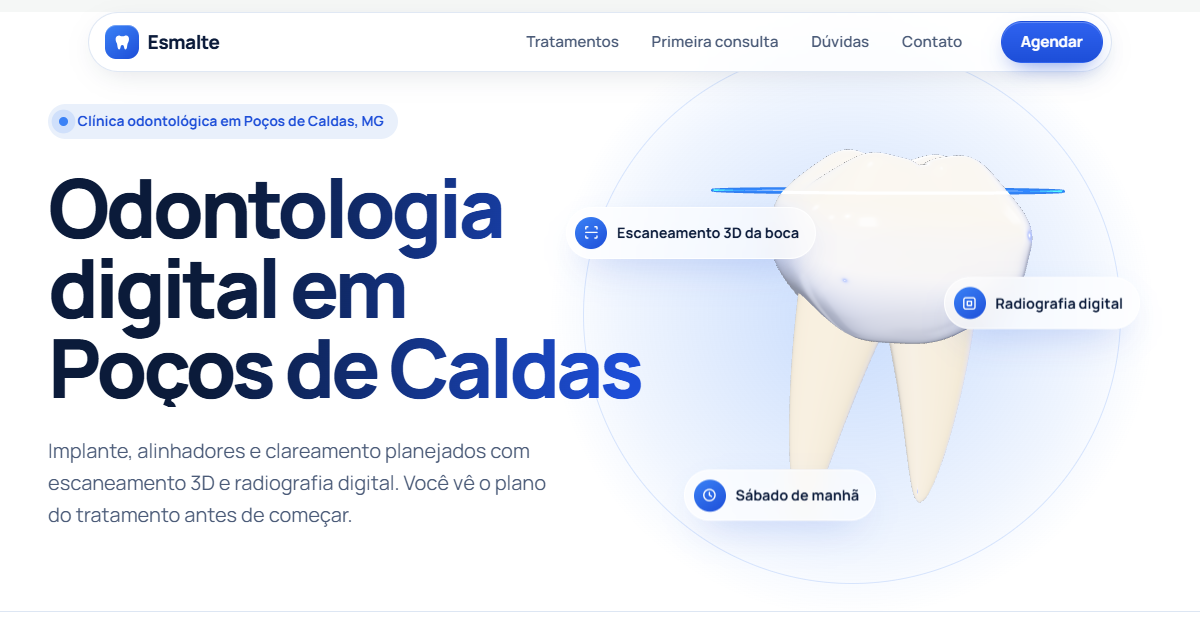
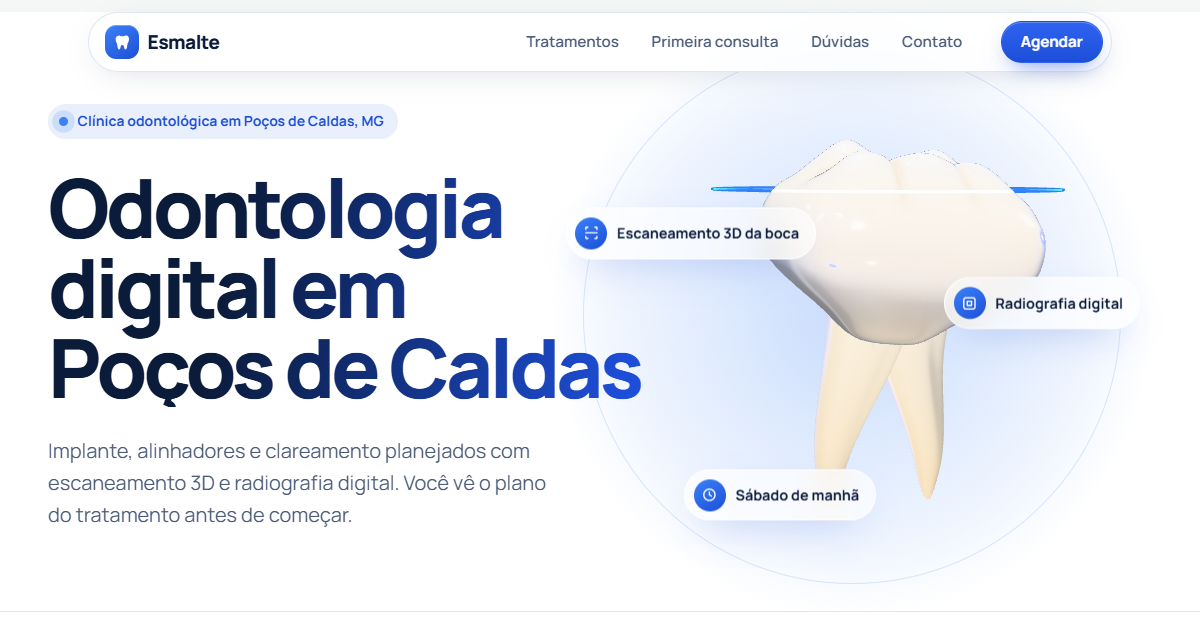
Dente 3D mais realista
Coroa de molar inferior com 5 cúspides, sulcos central, vestibular e lingual,
cor por região (colo marfim, pontas translúcidas, sombra nos sulcos), raízes
com tronco, furca e curvatura distal, e luz de preenchimento por baixo.

diff --git a/src/three/dente.ts b/src/three/dente.ts
@@ -31,8 +31,9 @@ const ESTADOS: Record<Estado, Partial<Params>> = {
   prevencao: { explodir: 0, raiz: 1, cor: 1, placa: 0, escala: 0.98, inclina: 0.16, scan: 0 },
 }
 
-const COR_A3 = new THREE.Color('#d6b77f')
-const COR_B1 = new THREE.Color('#fbfaf6')
+// multiplicam a cor por vértice da coroa: A3 amarela tudo, B1 deixa a cor natural do esmalte
+const COR_A3 = new THREE.Color('#e3c089')
+const COR_B1 = new THREE.Color('#ffffff')
 
 const clamp01 = (x: number) => Math.min(1, Math.max(0, x))
 const smooth = (e0: number, e1: number, x: number) => {
@@ -40,56 +41,102 @@ const smooth = (e0: number, e1: number, x: number) => {
   return t * t * (3 - 2 * t)
 }
 
+/**
+ * Coroa de primeiro molar inferior: 5 cúspides (3 vestibulares, 2 linguais, as linguais mais altas),
+ * sulco central ondulado, sulcos vestibular e lingual, mesa oclusal mais estreita que o bojo
+ * e colo estreitando até a junção com a raiz. A cor vem por vértice: marfim no colo, branco no meio,
+ * translúcido azulado nas pontas das cúspides e sombra dentro dos sulcos.
+ */
+const CUSPIDES: [number, number, number][] = [
+  [-0.56, 0.44, 0.15], // mesiovestibular
+  [0.0, 0.5, 0.14], // distovestibular
+  [0.56, 0.4, 0.105], // distal
+  [-0.44, -0.44, 0.185], // mesiolingual
+  [0.44, -0.44, 0.165], // distolingual
+]
+
 function geometriaCoroa(seg: number) {
-  let g: THREE.BufferGeometry = new THREE.SphereGeometry(1, seg, Math.round(seg * 0.75))
+  let g: THREE.BufferGeometry = new THREE.SphereGeometry(1, seg, Math.round(seg * 0.8))
   g.deleteAttribute('uv')
   g.deleteAttribute('normal')
   g = mergeVertices(g)
   const p = g.attributes.position as THREE.BufferAttribute
-  const cuspides: [number, number, number][] = [
-    [0.44, 0.38, 0.19], [-0.44, 0.38, 0.17], [0.46, -0.36, 0.18], [-0.44, -0.36, 0.16], [0.05, 0.5, 0.1],
-  ]
+  const cores = new Float32Array(p.count * 3)
+  const cColo = new THREE.Color('#ecdcbc'), cMeio = new THREE.Color('#fbf9f4'), cPonta = new THREE.Color('#e9eff7'), cSulco = new THREE.Color('#c4ad85')
+  const c = new THREE.Color()
+
   for (let i = 0; i < p.count; i++) {
     const ox = p.getX(i), oy = p.getY(i), oz = p.getZ(i)
-    let x = Math.sign(ox) * Math.pow(Math.abs(ox), 0.6)
-    let z = Math.sign(oz) * Math.pow(Math.abs(oz), 0.6)
-    let y = Math.sign(oy) * Math.pow(Math.abs(oy), 0.85)
+    let x = Math.sign(ox) * Math.pow(Math.abs(ox), 0.55)
+    let z = Math.sign(oz) * Math.pow(Math.abs(oz), 0.55)
+    let y = Math.sign(oy) * Math.pow(Math.abs(oy), 0.8)
 
-    const topo = smooth(0.35, 0.97, oy)
+    const topo = smooth(0.22, 0.97, oy)
     let h = 0
-    for (const [cx, cz, a] of cuspides) h += Math.exp(-((x - cx) ** 2 + (z - cz) ** 2) / 0.09) * a
-    const sulco = Math.exp(-(x * x) / 0.006) * 0.07 + Math.exp(-(z * z) / 0.01) * 0.05
-    y += topo * (h - sulco - 0.12)
+    for (const [cx, cz, a] of CUSPIDES) h += Math.exp(-((x - cx) ** 2 + (z - cz) ** 2) / 0.07) * a * 1.3
+    const zc = 0.06 * Math.sin(x * 3.2)
+    const central = Math.exp(-((z - zc) ** 2) / 0.0035) * 0.085 * (1 - smooth(0.7, 1, Math.abs(x)))
+    const vestibular = (Math.exp(-((x + 0.28) ** 2) / 0.0025) * 0.05 + Math.exp(-((x - 0.3) ** 2) / 0.0025) * 0.032) * smooth(0.05, 0.6, z)
+    const lingual = Math.exp(-(x * x) / 0.0025) * 0.05 * smooth(-0.05, -0.6, z)
+    const fossa = Math.exp(-(x * x + z * z) / 0.01) * 0.03
+    const sulco = central + vestibular + lingual + fossa
+    const ruido = Math.sin(9 * ox + 2 * oz) * Math.sin(7 * oz - 3 * oy) * Math.sin(11 * oy + ox) * 0.007
 
-    const bojo = 1 + 0.035 * Math.exp(-((oy - 0.25) ** 2) / 0.05)
-    const colo = 1 - 0.26 * smooth(-0.05, -1, oy)
-    x *= bojo * colo * 0.97
-    z *= bojo * colo * 0.86
-    p.setXYZ(i, x, y * 0.78, z)
+    y += topo * (h - sulco - 0.13) + ruido
+
+    const mesa = 1 - 0.1 * smooth(0.3, 1, oy)
+    const bojo = 1 + 0.03 * Math.exp(-((oy - 0.1) ** 2) / 0.06)
+    const colo = 1 - 0.5 * smooth(0.05, -0.9, oy)
+    const k = mesa * bojo * colo * (1 + ruido)
+    x *= k * 1.06
+    z *= k * 0.9
+    p.setXYZ(i, x, y * 0.8, z)
+
+    c.copy(cColo).lerp(cMeio, smooth(-0.85, 0.5, oy))
+    c.lerp(cPonta, clamp01(h * 4.5) * topo * 0.85)
+    c.lerp(cSulco, clamp01(sulco * 10) * topo * 0.9)
+    cores.set([c.r, c.g, c.b], i * 3)
   }
+  g.setAttribute('color', new THREE.BufferAttribute(cores, 3))
   g.computeVertexNormals()
   return g
 }
 
+/**
+ * Raiz mesial ou distal: largas no sentido vestíbulo-lingual e finas no mésio-distal,
+ * unidas num tronco perto do colo e separando depois da furca; as duas pontas curvam para distal.
+ */
 function geometriaRaiz(lado: number, comprimento: number, seg: number) {
   const perfil: THREE.Vector2[] = []
-  const n = 48
+  const n = 56
   for (let i = 0; i <= n; i++) {
     const t = i / n
-    const r = 0.45 * Math.pow(1 - t, 0.5) * (1 - 0.3 * t)
+    const r = 0.5 * Math.pow(1 - t, 0.55) * (1 - 0.2 * t)
     perfil.push(new THREE.Vector2(Math.max(r, 0.0001), -t * comprimento))
   }
-  const g = new THREE.LatheGeometry(perfil, seg)
+  let g: THREE.BufferGeometry = new THREE.LatheGeometry(perfil, seg)
+  g.deleteAttribute('uv')
+  g.deleteAttribute('normal')
+  g = mergeVertices(g)
   const p = g.attributes.position as THREE.BufferAttribute
+  const cores = new Float32Array(p.count * 3)
+  const cTopo = new THREE.Color('#f0e5cf'), cPonta = new THREE.Color('#dcc79f')
+  const c = new THREE.Color()
   for (let i = 0; i < p.count; i++) {
     let x = p.getX(i), z = p.getZ(i)
     const y = p.getY(i)
     const t = -y / comprimento
-    z *= 0.7
-    x += lado * (0.42 * t - 0.22 * t * t)
+    x *= 0.74
+    z *= 1.22 * (1 - 0.3 * t)
+    // sulco longitudinal raso no meio da face da raiz
+    x *= 1 - 0.12 * Math.exp(-(z * z) / 0.02) * smooth(0.1, 0.4, t)
+    x += lado * (0.17 + 0.27 * smooth(0.15, 0.85, t)) + 0.16 * t * t
     p.setXYZ(i, x, y, z)
+    c.copy(cTopo).lerp(cPonta, Math.pow(t, 1.3))
+    cores.set([c.r, c.g, c.b], i * 3)
   }
-  g.translate(lado * 0.33, -0.3, 0)
+  g.setAttribute('color', new THREE.BufferAttribute(cores, 3))
+  g.translate(0, -0.22, 0)
   g.computeVertexNormals()
   return g
 }
@@ -135,7 +182,7 @@ export function iniciarDente(canvas: HTMLCanvasElement, opcoes: { reduzido: bool
   const cena = new THREE.Scene()
   const pmrem = new THREE.PMREMGenerator(renderer)
   cena.environment = pmrem.fromScene(new RoomEnvironment(), 0.03).texture
-  cena.environmentIntensity = 0.85
+  cena.environmentIntensity = 0.75
 
   const camera = new THREE.PerspectiveCamera(30, 1, 0.1, 50)
   camera.position.set(0, 0.2, 7.5)
@@ -146,14 +193,16 @@ export function iniciarDente(canvas: HTMLCanvasElement, opcoes: { reduzido: bool
   azul.position.set(4, 0.5, -3)
   const azulBaixo = new THREE.DirectionalLight(0x3b82f6, 0.9)
   azulBaixo.position.set(-2, -4, 2)
-  cena.add(chave, azul, azulBaixo, new THREE.AmbientLight(0xe8f0ff, 0.3))
+  const preenche = new THREE.DirectionalLight(0xfff6ea, 0.7)
+  preenche.position.set(1, -3, 4)
+  cena.add(chave, azul, azulBaixo, preenche, new THREE.AmbientLight(0xe8f0ff, 0.3))
 
   const seg = movel ? 110 : 170
   const esmalte = new THREE.MeshPhysicalMaterial({
-    color: COR_B1.clone(), roughness: 0.16, clearcoat: 1, clearcoatRoughness: 0.05,
-    sheen: 0.6, sheenRoughness: 0.35, sheenColor: new THREE.Color('#dbe7ff'), specularIntensity: 0.9,
+    color: COR_B1.clone(), vertexColors: true, roughness: 0.13, ior: 1.62, specularIntensity: 1,
+    clearcoat: 1, clearcoatRoughness: 0.09, sheen: 0.35, sheenRoughness: 0.3, sheenColor: new THREE.Color('#dfe9ff'),
   })
-  const cemento = new THREE.MeshPhysicalMaterial({ color: '#efe4cc', roughness: 0.45, clearcoat: 0.3, transparent: true, side: THREE.DoubleSide })
+  const cemento = new THREE.MeshPhysicalMaterial({ color: '#ffffff', vertexColors: true, roughness: 0.5, clearcoat: 0.15, clearcoatRoughness: 0.4, transparent: true })
   const titanio = new THREE.MeshPhysicalMaterial({ color: '#c3cad3', metalness: 1, roughness: 0.26, transparent: true })
   const ouro = new THREE.MeshPhysicalMaterial({ color: '#d6b878', metalness: 1, roughness: 0.22, transparent: true })
   const placaMat = new THREE.MeshPhysicalMaterial({
@@ -167,7 +216,7 @@ export function iniciarDente(canvas: HTMLCanvasElement, opcoes: { reduzido: bool
   const geoCoroa = geometriaCoroa(seg)
   const coroa = new THREE.Mesh(geoCoroa, esmalte)
   const raizes = new THREE.Group()
-  raizes.add(new THREE.Mesh(geometriaRaiz(-1, 2.15, movel ? 40 : 64), cemento), new THREE.Mesh(geometriaRaiz(1, 1.95, movel ? 40 : 64), cemento))
+  raizes.add(new THREE.Mesh(geometriaRaiz(-1, 2.2, movel ? 48 : 72), cemento), new THREE.Mesh(geometriaRaiz(1, 2.0, movel ? 48 : 72), cemento))
   const pilar = new THREE.Mesh(new THREE.CylinderGeometry(0.19, 0.25, 0.5, 6, 1), ouro)
   const parafuso = new THREE.Mesh(geometriaParafuso(movel ? 72 : 110), titanio)
 
